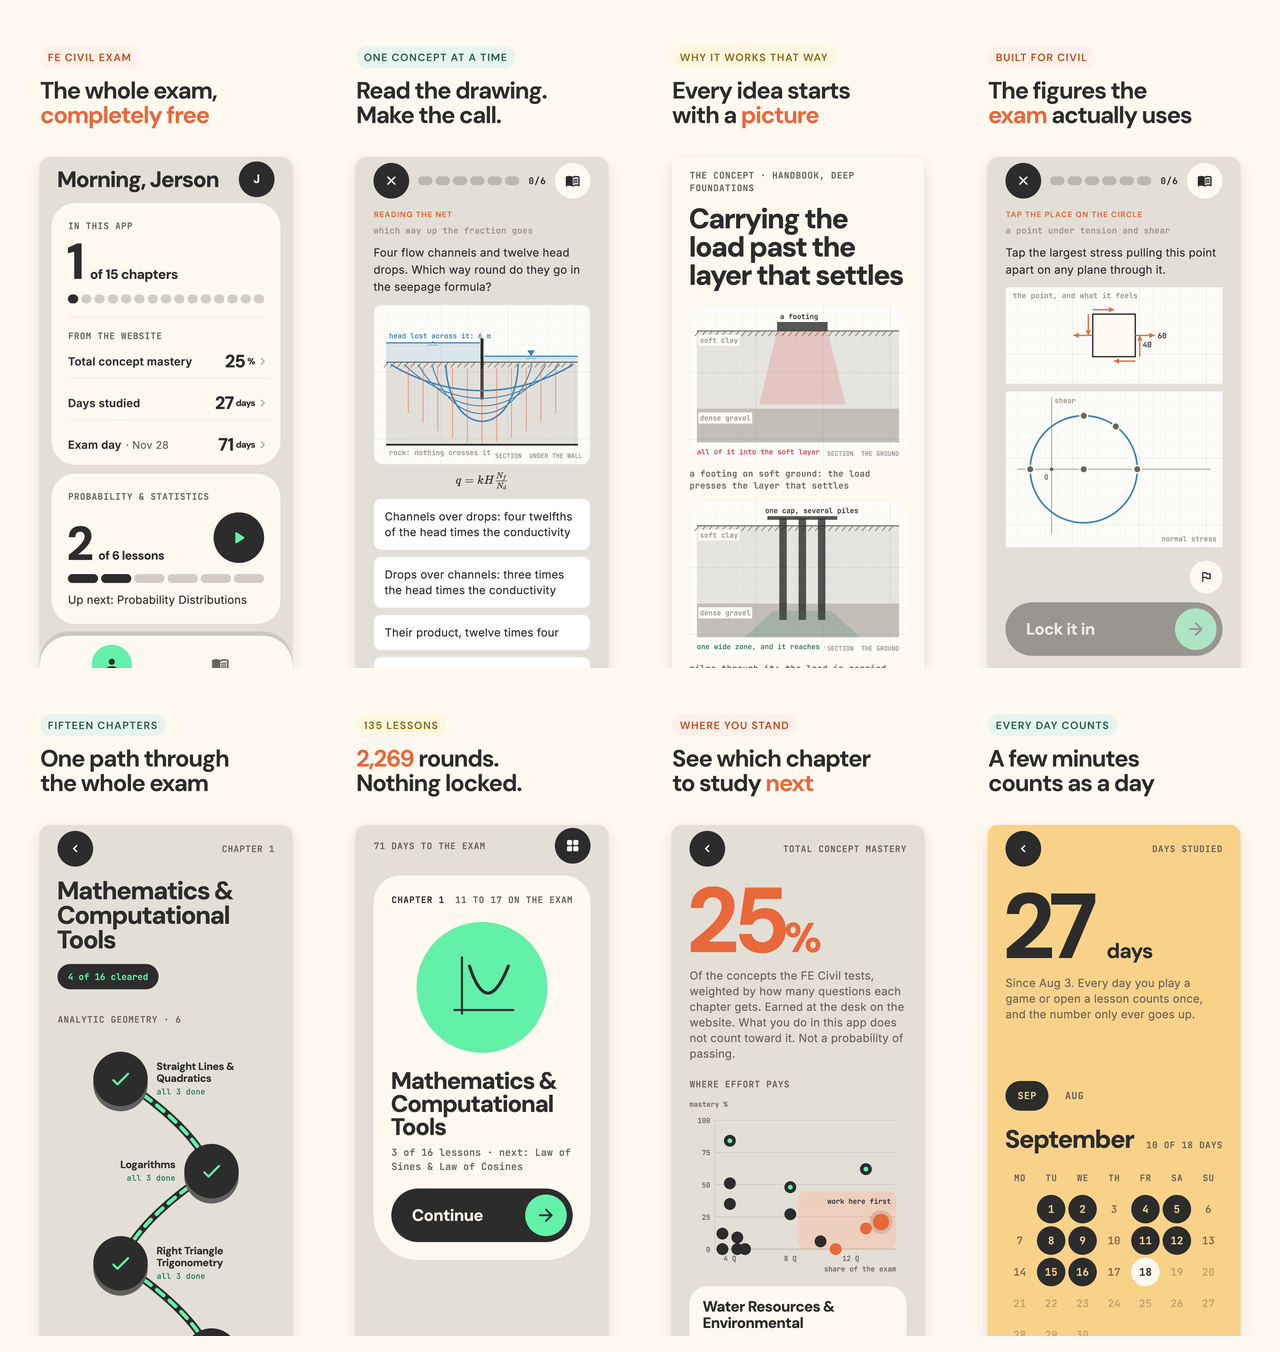
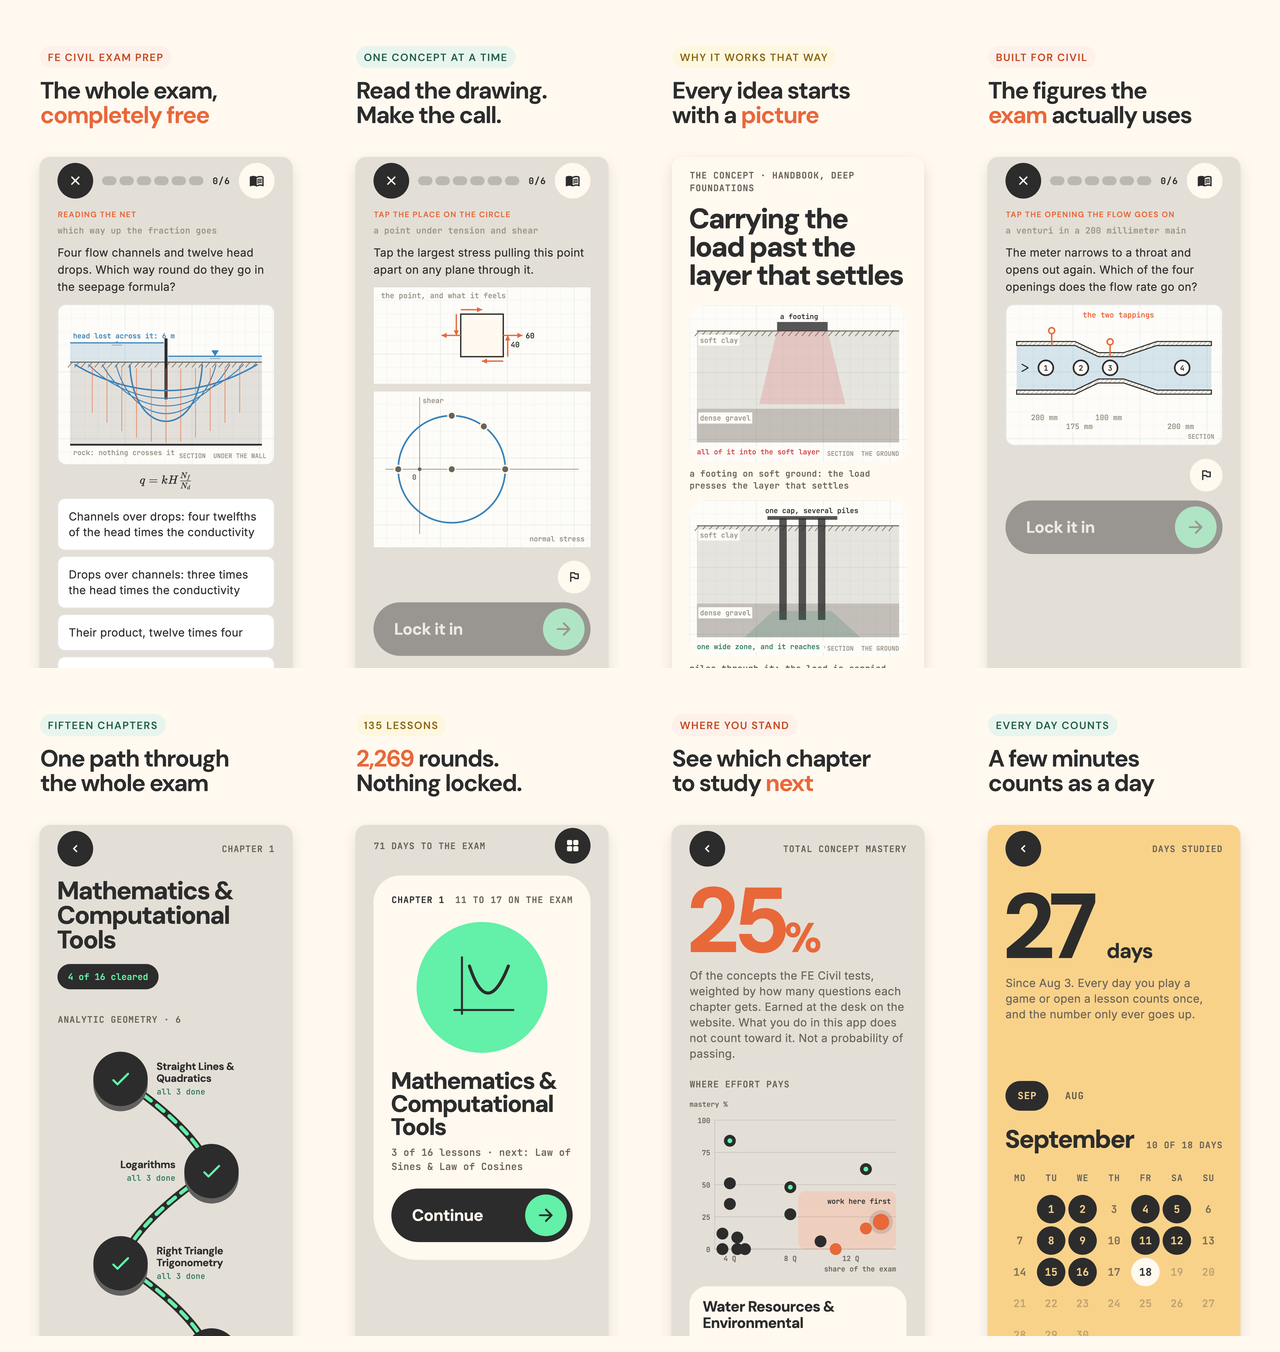
Load the App Store listing from the repo
Writes the eight screenshots, the description, keywords, promotional text,
subtitle, support and marketing URLs, the privacy policy URL, the category
and the build onto version 1.0. Re-running replaces the screenshots rather
than piling more on.

It stops short of submitting. App Privacy, the age rating questionnaire
and export compliance stay with the owner; the first of those is not in
Apple's API at all.

Two things that cost a run: a fresh JWT per request trips Apple's rate
limit and comes back as a bare 401 that reads like a bad key, so the
token is cached; and 1320 by 2868 is called APP_IPHONE_67 in the API,
with no APP_IPHONE_69.

Claude-Session: https://claude.ai/code/session_01SdasrYKEFqksRe86cjBMCH

Changed region(s): [[0.0312, 0.1243, 0.25, 0.497], [0.7812, 0.1553, 0.9688, 0.497], [0.2812, 0.1553, 0.4688, 0.497]]

diff --git a/mobile/design/appstore/work/01-free.html b/mobile/design/appstore/work/01-free.html
@@ -20,8 +20,8 @@
   .card img { display: block; width: 100%; height: auto }
 </style></head><body>
   <div class="pad">
-    <span class="pill">FE Civil exam</span>
+    <span class="pill">FE Civil exam prep</span>
     <h1>The whole exam,<br><em>completely free</em></h1>
   </div>
-  <div class="card"><img src="file:///Users/jerson/developer/cs260/startup/mobile/test/goldens/appstore/home.png" alt=""></div>
+  <div class="card"><img src="file:///Users/jerson/developer/cs260/startup/mobile/test/goldens/appstore/round-seepage.png" alt=""></div>
 </body></html>

diff --git a/mobile/design/appstore/work/04-figures.html b/mobile/design/appstore/work/04-figures.html
@@ -23,5 +23,5 @@
     <span class="pill">Built for Civil</span>
     <h1>The figures the<br><em>exam</em> actually uses</h1>
   </div>
-  <div class="card"><img src="file:///Users/jerson/developer/cs260/startup/mobile/test/goldens/appstore/round-mohr.png" alt=""></div>
+  <div class="card"><img src="file:///Users/jerson/developer/cs260/startup/mobile/test/goldens/appstore/round-metering.png" alt=""></div>
 </body></html>

diff --git a/mobile/design/appstore/work/02-round.html b/mobile/design/appstore/work/02-round.html
@@ -23,5 +23,5 @@
     <span class="pill">One concept at a time</span>
     <h1>Read the drawing.<br>Make the call.</h1>
   </div>
-  <div class="card"><img src="file:///Users/jerson/developer/cs260/startup/mobile/test/goldens/appstore/round-seepage.png" alt=""></div>
+  <div class="card"><img src="file:///Users/jerson/developer/cs260/startup/mobile/test/goldens/appstore/round-mohr.png" alt=""></div>
 </body></html>

diff --git a/mobile/design/appstore/listing.py b/mobile/design/appstore/listing.py
@@ -1,0 +1,170 @@
+"""Loads the App Store listing: screenshots, copy, category, build.
+
+Does not submit. Submission, App Privacy, the age rating questionnaire and
+export compliance are left to the owner.
+"""
+import hashlib
+import pathlib
+import sys
+import urllib.request
+
+sys.path.insert(0, str(pathlib.Path(__file__).parent))
+from asc import call, APP  # noqa: E402
+
+SHOTS = pathlib.Path(__file__).parent / 'out'
+DISPLAY = 'APP_IPHONE_67'  # what 1320 x 2868 is called in the API
+
+SUBTITLE = 'Free FE Civil exam practice'
+
+PROMO = ('Fifteen chapters, 135 lessons and 2,269 rounds of FE Civil practice, built around '
+         'the figures the exam actually uses. All of it free, nothing locked.')
+
+KEYWORDS = ('FE exam,civil engineering,NCEES,EIT,engineer in training,'
+            'fundamentals,exam prep,practice,PE,study')
+
+DESCRIPTION = """FE for Raccoons is a study app for the Fundamentals of Engineering Civil exam, and all of it is free.
+
+Fifteen chapters. 135 lessons. 2,269 rounds. Nothing is locked and nothing asks for a card.
+
+ONE CONCEPT AT A TIME
+Each lesson is a short run of rounds. A round puts a figure in front of you, asks one question about it, and tells you straight away whether you were right and why. Two minutes waiting for a bus is a real session.
+
+EVERY IDEA STARTS WITH A PICTURE
+Behind every concept there is a sheet that draws the idea before it names it. You see what is going on first, then the words for it, then the formula. There are 370 of them, written so that someone meeting the topic for the first time can follow.
+
+BUILT FOR CIVIL
+The drawings are the ones the exam actually uses. Mohr's circle, flow nets under a sheet pile wall, shear and moment diagrams, orifice plates, phase diagrams, hydraulic jumps, stress blocks. They were drawn for this exam rather than borrowed from a textbook.
+
+SEE WHERE THE EFFORT PAYS
+Every chapter sits on a field: how far along you are against how much of the exam it is worth. One look tells you which chapter is costing you the most, so you always know what to open next.
+
+A FEW MINUTES COUNTS AS A DAY
+Open the app, finish one round, and the day is on your calendar. The count only ever goes up.
+
+THE SAME ACCOUNT AS THE WEBSITE
+Sign in with the account you use at fe4raccoons.com. What you do here warms up the work you do there, and the website is where concept mastery is earned at the desk. This app tells you that plainly rather than inflating a number.
+
+Completely free. No subscription, no trial, no card."""
+
+SUPPORT_URL = 'https://fe4raccoons.com'
+MARKETING_URL = 'https://fe4raccoons.com'
+PRIVACY_URL = 'https://fe4raccoons.com/privacy'
+
+LIMITS = {'subtitle': 30, 'promotionalText': 170, 'keywords': 100, 'description': 4000}
+
+
+def check_lengths():
+    for name, text in (('subtitle', SUBTITLE), ('promotionalText', PROMO),
+                       ('keywords', KEYWORDS), ('description', DESCRIPTION)):
+        n = len(text)
+        print(f"  {name}: {n}/{LIMITS[name]}")
+        if n > LIMITS[name]:
+            sys.exit(f"{name} is {n - LIMITS[name]} characters over Apple's limit")
+        if '—' in text or '–' in text:
+            sys.exit(f"{name} contains a dash character that should not be there")
+
+
+def ok(code, body, what):
+    if code not in (200, 201, 204):
+        sys.exit(f"{what} failed [{code}]: {body}")
+    return body
+
+
+def main():
+    print("Copy lengths against Apple's limits")
+    check_lengths()
+
+    _, v = call('GET', f"apps/{APP}/appStoreVersions?limit=1")
+    vid = v['data'][0]['id']
+    _, loc = call('GET', f"appStoreVersions/{vid}/appStoreVersionLocalizations")
+    lid = loc['data'][0]['id']
+    _, infos = call('GET', f"apps/{APP}/appInfos")
+    info_id = infos['data'][0]['id']
+    _, ilocs = call('GET', f"appInfos/{info_id}/appInfoLocalizations")
+    iloc_id = ilocs['data'][0]['id']
+    print(f"\nversion {v['data'][0]['attributes']['versionString']} ({vid})")
+
+    # 1. the eight screenshots
+    _, sets = call('GET', f"appStoreVersionLocalizations/{lid}/appScreenshotSets")
+    sid = next((s['id'] for s in sets['data']
+                if s['attributes']['screenshotDisplayType'] == DISPLAY), None)
+    if sid is None:
+        code, body = call('POST', 'appScreenshotSets', {
+            "data": {"type": "appScreenshotSets",
+                     "attributes": {"screenshotDisplayType": DISPLAY},
+                     "relationships": {"appStoreVersionLocalization": {
+                         "data": {"type": "appStoreVersionLocalizations", "id": lid}}}}})
+        sid = ok(code, body, 'create screenshot set')['data']['id']
+        print(f"screenshot set created ({DISPLAY})")
+    else:
+        print(f"screenshot set already there ({DISPLAY}); replacing its contents")
+        _, have = call('GET', f"appScreenshotSets/{sid}/appScreenshots?limit=50")
+        for s in have['data']:
+            call('DELETE', f"appScreenshots/{s['id']}")
+
+    ids = []
+    for png in sorted(SHOTS.glob('*.png')):
+        data = png.read_bytes()
+        code, body = call('POST', 'appScreenshots', {
+            "data": {"type": "appScreenshots",
+                     "attributes": {"fileSize": len(data), "fileName": png.name},
+                     "relationships": {"appScreenshotSet": {
+                         "data": {"type": "appScreenshotSets", "id": sid}}}}})
+        shot = ok(code, body, f'reserve {png.name}')['data']
+        for op in shot['attributes']['uploadOperations']:
+            chunk = data[op['offset']:op['offset'] + op['length']]
+            req = urllib.request.Request(op['url'], data=chunk, method=op['method'])
+            for h in op['requestHeaders']:
+                req.add_header(h['name'], h['value'])
+            urllib.request.urlopen(req).read()
+        code, body = call('PATCH', f"appScreenshots/{shot['id']}", {
+            "data": {"type": "appScreenshots", "id": shot['id'],
+                     "attributes": {"uploaded": True,
+                                    "sourceFileChecksum": hashlib.md5(data).hexdigest()}}})
+        ok(code, body, f'commit {png.name}')
+        ids.append(shot['id'])
+        print(f"  uploaded {png.name} ({len(data) // 1024} KB)")
+
+    code, body = call('PATCH', f"appScreenshotSets/{sid}/relationships/appScreenshots",
+                      {"data": [{"type": "appScreenshots", "id": i} for i in ids]})
+    ok(code, body, 'set screenshot order')
+    print(f"  order locked, {len(ids)} screenshots")
+
+    # 2. the copy on the version
+    code, body = call('PATCH', f"appStoreVersionLocalizations/{lid}", {
+        "data": {"type": "appStoreVersionLocalizations", "id": lid,
+                 "attributes": {"description": DESCRIPTION, "keywords": KEYWORDS,
+                                "promotionalText": PROMO, "supportUrl": SUPPORT_URL,
+                                "marketingUrl": MARKETING_URL}}})
+    ok(code, body, 'version copy')
+    print("\ndescription, keywords, promotional text and URLs written")
+
+    # 3. subtitle and privacy policy live on the app info, not the version
+    code, body = call('PATCH', f"appInfoLocalizations/{iloc_id}", {
+        "data": {"type": "appInfoLocalizations", "id": iloc_id,
+                 "attributes": {"subtitle": SUBTITLE, "privacyPolicyUrl": PRIVACY_URL}}})
+    ok(code, body, 'subtitle and privacy policy')
+    print("subtitle and privacy policy URL written")
+
+    # 4. category
+    code, body = call('PATCH', f"appInfos/{info_id}", {
+        "data": {"type": "appInfos", "id": info_id,
+                 "relationships": {
+                     "primaryCategory": {"data": {"type": "appCategories", "id": "EDUCATION"}},
+                     "secondaryCategory": {"data": {"type": "appCategories", "id": "REFERENCE"}}}}})
+    ok(code, body, 'category')
+    print("category set to Education, with Reference second")
+
+    # 5. the build
+    _, builds = call('GET', f"builds?filter[app]={APP}&limit=5&sort=-version")
+    build = next((b for b in builds['data'] if b['attributes']['version'] == '1023'), None)
+    if build is None:
+        sys.exit('build 1023 not found')
+    code, body = call('PATCH', f"appStoreVersions/{vid}/relationships/build",
+                      {"data": {"type": "builds", "id": build['id']}})
+    ok(code, body, 'attach build')
+    print("build 1023 attached to version 1.0")
+
+
+if __name__ == '__main__':
+    main()

diff --git a/mobile/design/appstore/asc.py b/mobile/design/appstore/asc.py
@@ -1,0 +1,38 @@
+"""Thin App Store Connect client for this repo's key."""
+import json, pathlib, time, urllib.request, urllib.error, jwt
+
+APP = "6800350588"
+_REPO = pathlib.Path(__file__).resolve().parents[3]
+_cfg = json.loads((_REPO / 'secrets' / 'appstore-connect.json').read_text())
+_key = (pathlib.Path.home() / f".appstoreconnect/private_keys/AuthKey_{_cfg['key_id']}.p8").read_text()
+
+_cached = {"tok": None, "until": 0}
+
+def token():
+    """One token, reused. Minting a fresh JWT per request trips Apple's rate
+    limit and comes back as a bare 401, which reads like a bad key."""
+    now = int(time.time())
+    if _cached["tok"] and now < _cached["until"]:
+        return _cached["tok"]
+    _cached["tok"] = jwt.encode(
+        {"iss": _cfg["issuer_id"], "iat": now, "exp": now + 1100,
+         "aud": "appstoreconnect-v1"}, _key, algorithm="ES256",
+        headers={"kid": _cfg["key_id"], "typ": "JWT"})
+    _cached["until"] = now + 900
+    return _cached["tok"]
+
+def call(method, path, body=None, raw=None, headers=None, base="https://api.appstoreconnect.apple.com/v1/"):
+    url = path if path.startswith('http') else base + path
+    data = raw if raw is not None else (json.dumps(body).encode() if body else None)
+    h = {"Authorization": f"Bearer {token()}"}
+    if body is not None:
+        h["Content-Type"] = "application/json"
+    if headers:
+        h.update(headers)
+    req = urllib.request.Request(url, data=data, headers=h, method=method)
+    try:
+        with urllib.request.urlopen(req) as r:
+            payload = r.read()
+            return r.status, (json.loads(payload) if payload else None)
+    except urllib.error.HTTPError as e:
+        return e.code, e.read().decode()[:600]

diff --git a/mobile/design/appstore/README.md b/mobile/design/appstore/README.md
@@ -43,3 +43,24 @@ word is about a third larger.
 Headlines, overline pills and which screen goes in which slot all live in
 `frames.json`. `<em>` inside a headline sets that word in ember. Rebuild with
 the second command above.
+
+## Loading the listing
+
+    python3 design/appstore/listing.py
+
+Writes the eight screenshots, the description, keywords, promotional text,
+subtitle, URLs, category and the build onto version 1.0. It is safe to re-run:
+it replaces the screenshots in the set rather than adding to them. It does NOT
+submit, and it does not touch App Privacy, the age rating or export compliance.
+Those three are the owner's, and the first of them is not in Apple's API at all.
+
+The copy itself lives at the top of that file, which is the source of truth for
+what is on the store page.
+
+**Mint one token and reuse it.** `asc.py` caches the JWT for fifteen minutes.
+Generating a fresh one per request trips Apple's rate limit and comes back as a
+bare 401 that reads exactly like a bad key. That cost one failed run halfway
+through an upload.
+
+**1320 x 2868 is called `APP_IPHONE_67` in the API.** There is no
+`APP_IPHONE_69`; sending it returns a 409 on the attribute type.
